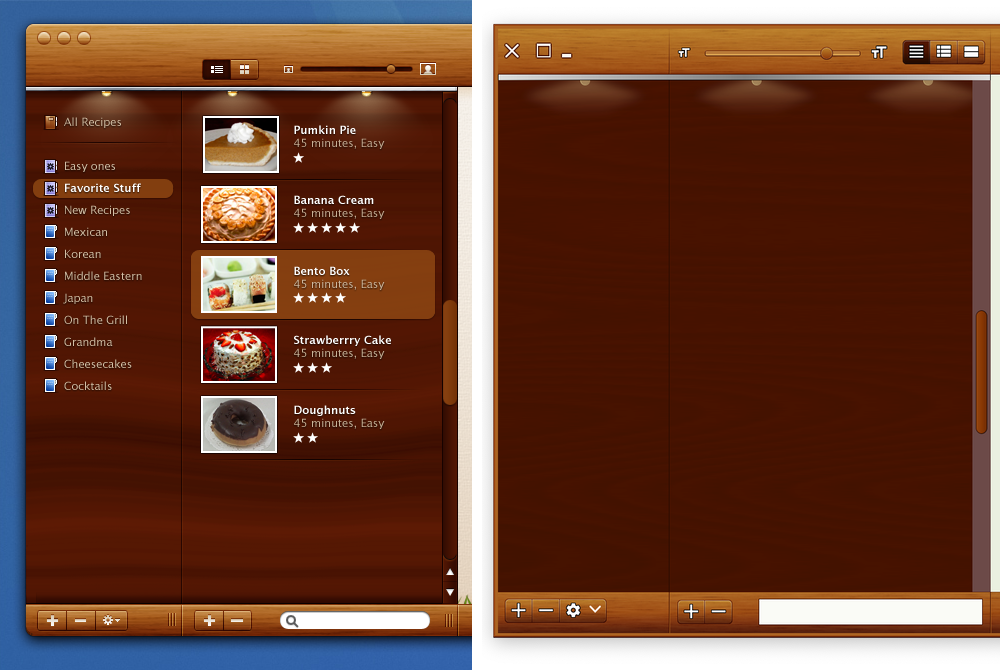
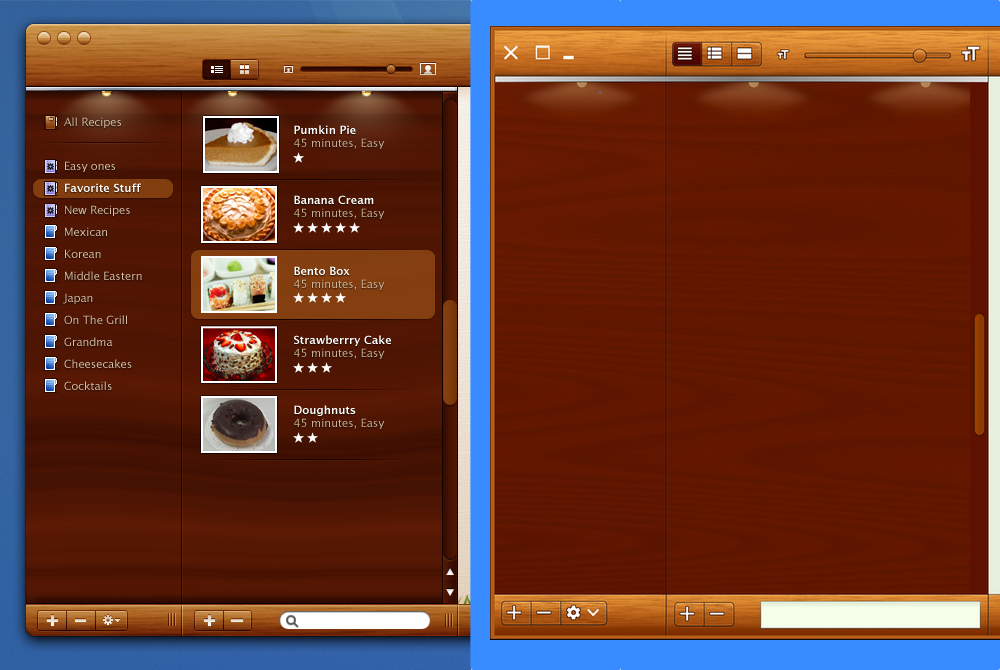
More Cookbook demo tonal tweaks
For #400

diff --git a/demos/theming-apps/src/main/java/org/pushingpixels/radiance/demo/themingapps/cookbook/skin/CookbookDecorationPainter.java b/demos/theming-apps/src/main/java/org/pushingpixels/radiance/demo/themingapps/cookbook/skin/CookbookDecorationPainter.java
@@ -30,16 +30,11 @@
 package org.pushingpixels.radiance.demo.themingapps.cookbook.skin;
 
 import com.jhlabs.image.*;
-import org.pushingpixels.ephemeral.chroma.dynamiccolor.ContainerConfiguration;
-import org.pushingpixels.ephemeral.chroma.dynamiccolor.DynamicBimodalPalette;
-import org.pushingpixels.ephemeral.chroma.hct.Hct;
 import org.pushingpixels.radiance.common.api.RadianceCommonCortex;
 import org.pushingpixels.radiance.theming.api.RadianceSkin;
 import org.pushingpixels.radiance.theming.api.RadianceThemingCortex;
 import org.pushingpixels.radiance.theming.api.RadianceThemingCortex.ComponentOrParentChainScope;
 import org.pushingpixels.radiance.theming.api.RadianceThemingSlices.DecorationAreaType;
-import org.pushingpixels.radiance.theming.api.colorscheme.BimodalPaletteResolverUtils;
-import org.pushingpixels.radiance.theming.api.colorscheme.ColorSchemeUtils;
 import org.pushingpixels.radiance.theming.api.colorscheme.ContainerColorTokens;
 import org.pushingpixels.radiance.theming.api.painter.decoration.RadianceDecorationPainter;
 
@@ -72,25 +67,25 @@ class CookbookDecorationPainter implements RadianceDecorationPainter {
         BrushedMetalFilter brushedMetalFilter = new BrushedMetalFilter();
         brushedMetalFilter.setAmount(10);
 
-        ContainerColorTokens brushedMetalTokens = ColorSchemeUtils.getBimodalContainerTokens(
-            /* seedOne */ Hct.fromInt(0xFF6F2003),
-            /* seedTwo */ Hct.fromInt(0xFFB05306),
-            /* transitionRange */ DynamicBimodalPalette.TransitionRange.TONAL_CONTAINER_SURFACES,
-            /* fidelityTone */ 45.0,
-            /* containerConfiguration */ new ContainerConfiguration(
-                /* isDark */ true,
-                /* contrastLevel */ 1.0,
-                /* surfaceRangeAmplitudeFactor */ 2.0),
-            /* colorResolver */ BimodalPaletteResolverUtils.getBimodalPaletteColorResolver());
+//        ContainerColorTokens brushedMetalTokens = ColorSchemeUtils.getBimodalContainerTokens(
+//            /* seedOne */ Hct.fromInt(0xFF6F2003),
+//            /* seedTwo */ Hct.fromInt(0xFFB05306),
+//            /* transitionRange */ DynamicBimodalPalette.TransitionRange.TONAL_CONTAINER_SURFACES,
+//            /* fidelityTone */ 45.0,
+//            /* containerConfiguration */ new ContainerConfiguration(
+//                /* isDark */ true,
+//                /* contrastLevel */ 1.0,
+//                /* surfaceRangeAmplitudeFactor */ 2.0),
+//            /* colorResolver */ BimodalPaletteResolverUtils.getBimodalPaletteColorResolver());
 
         LookupFilter brushedMetalLookupFilter = new LookupFilter(new Gradient(
             new int[] { 0, 96, 128, 192, 255 },
             new int[] {
-                brushedMetalTokens.getContainerSurfaceBright().getRGB() & 0x00FFFFFF,
-                brushedMetalTokens.getContainerSurfaceBright().getRGB() & 0x00FFFFFF,
-                brushedMetalTokens.getContainerSurfaceDim().getRGB() & 0x28FFFFFF,
-                brushedMetalTokens.getContainerSurfaceDim().getRGB() & 0xC0FFFFFF,
-                brushedMetalTokens.getContainerSurfaceDim().getRGB() }));
+                CookbookTokens.GOLDEN_BROWN_TOKENS.getContainerSurfaceBright().getRGB() & 0x00FFFFFF,
+                CookbookTokens.GOLDEN_BROWN_TOKENS.getContainerSurfaceBright().getRGB() & 0x00FFFFFF,
+                CookbookTokens.GOLDEN_BROWN_TOKENS.getContainerSurfaceDim().getRGB() & 0x28FFFFFF,
+                CookbookTokens.GOLDEN_BROWN_TOKENS.getContainerSurfaceDim().getRGB() & 0xC0FFFFFF,
+                CookbookTokens.GOLDEN_BROWN_TOKENS.getContainerSurfaceDim().getRGB() }));
 
         this.brushedMetalImage = new CompoundFilter(brushedMetalFilter, brushedMetalLookupFilter)
                 .filter(new BufferedImage(screenWidth, screenHeight, BufferedImage.TYPE_INT_ARGB),
@@ -107,13 +102,14 @@ class CookbookDecorationPainter implements RadianceDecorationPainter {
         woodFilter.setgain(0.7f);
 
         LookupFilter woodLookupFilter = new LookupFilter(new Gradient(
-            new int[] { 0, 64, 128, 192, 255 },
+            new int[] { 0, 64, 128, 164, 224, 255 },
             new int[] {
-                CookbookTokens.DARK_BROWN_TOKENS.getContainerSurfaceHighest().getRGB(),
-                CookbookTokens.DARK_BROWN_TOKENS.getContainerSurfaceHighest().getRGB(),
                 CookbookTokens.DARK_BROWN_TOKENS.getContainerSurfaceHigh().getRGB(),
+                CookbookTokens.DARK_BROWN_TOKENS.getContainerSurfaceHigh().getRGB(),
+                CookbookTokens.DARK_BROWN_TOKENS.getContainerSurface().getRGB(),
                 CookbookTokens.DARK_BROWN_TOKENS.getContainerSurfaceLow().getRGB(),
-                CookbookTokens.DARK_BROWN_TOKENS.getContainerSurfaceLowest().getRGB() }));
+                CookbookTokens.DARK_BROWN_TOKENS.getContainerSurfaceLowest().getRGB(),
+                CookbookTokens.DARK_BROWN_TOKENS.getContainerSurfaceDim().getRGB() }));
 
         this.woodImage = new CompoundFilter(woodFilter, woodLookupFilter).filter(
                 new BufferedImage(screenWidth, screenHeight, BufferedImage.TYPE_INT_ARGB), null);
@@ -136,33 +132,34 @@ class CookbookDecorationPainter implements RadianceDecorationPainter {
         if ((decorationAreaType == DecorationAreaType.PRIMARY_TITLE_PANE)
                 || (decorationAreaType == DecorationAreaType.SECONDARY_TITLE_PANE)
                 || (decorationAreaType == DecorationAreaType.HEADER)
-                || (decorationAreaType == DecorationAreaType.TOOLBAR)) {
+                || (decorationAreaType == DecorationAreaType.TOOLBAR)
+        ) {
             int dy = comp.getLocationOnScreen().y
                     - SwingUtilities.getWindowAncestor(comp).getLocationOnScreen().y;
-            // main background gradient
-            graphics.setPaint(new LinearGradientPaint(0, -dy, 0, 70 - dy,
-                new float[] { 0.0f, 0.2f, 0.4f, 0.6f, 0.8f, 1.0f },
-                new Color[] {
-                    tokens.getContainerSurfaceBright(),
-                    tokens.getContainerSurfaceHigh(),
-                    tokens.getContainerSurface(),
-                    tokens.getContainerSurfaceLow(),
-                    tokens.getContainerSurfaceLowest(),
-                    tokens.getContainerSurfaceDim() }));
-            graphics.fillRect(0, 0, width, height);
-        } else if (decorationAreaType == DecorationAreaType.FOOTER) {
-            // main background gradient
-            int dy = comp.getLocationOnScreen().y
-                    - farthestOfTheSameAreaType.getLocationOnScreen().y;
-            int footerHeight = farthestOfTheSameAreaType.getHeight();
-            graphics.setPaint(new LinearGradientPaint(0, -dy, 0, -dy + footerHeight,
-                new float[] { 0.0f, 0.3f, 0.55f, 0.77f, 1.0f },
+            int headerHeight = farthestOfTheSameAreaType.getHeight();
+            // header background gradient, slightly lighter colors
+            graphics.setPaint(new LinearGradientPaint(0, -dy, 0, -dy + headerHeight,
+                new float[] { 0.0f, 0.33f, 0.67f, 1.0f },
                 new Color[] {
                     tokens.getContainerSurfaceBright(),
                     tokens.getContainerSurfaceHighest(),
                     tokens.getContainerSurfaceHigh(),
+                    tokens.getContainerSurface()}));
+            graphics.fillRect(0, 0, width, height);
+        } else if (decorationAreaType == DecorationAreaType.FOOTER) {
+            int dy = comp.getLocationOnScreen().y
+                    - farthestOfTheSameAreaType.getLocationOnScreen().y;
+            int footerHeight = farthestOfTheSameAreaType.getHeight();
+            // footer background gradient, slightly darker colors
+            graphics.setPaint(new LinearGradientPaint(0, -dy, 0, -dy + footerHeight,
+                new float[] { 0.0f, 0.35f, 0.55f, 0.7f, 0.85f, 1.0f },
+                new Color[] {
+                    tokens.getContainerSurfaceHighest(),
+                    tokens.getContainerSurfaceHigh(),
+                    tokens.getContainerSurface(),
                     tokens.getContainerSurfaceLow(),
-                    tokens.getContainerSurfaceDim() }));
+                    tokens.getContainerSurfaceLowest(),
+                    tokens.getContainerSurfaceDim()}));
             graphics.fillRect(0, 0, width, height);
         } else if (decorationAreaType == DecorationAreaType.CONTROL_PANE) {
             // general background gradient
@@ -180,7 +177,7 @@ class CookbookDecorationPainter implements RadianceDecorationPainter {
                 - SwingUtilities.getWindowAncestor(comp).getLocationOnScreen().y;
         int dx = comp.getLocationOnScreen().x
                 - SwingUtilities.getWindowAncestor(comp).getLocationOnScreen().x;
-        graphics.setComposite(AlphaComposite.SrcOver.derive(0.3f));
+        graphics.setComposite(AlphaComposite.SrcOver.derive(0.35f));
         graphics.drawImage(toOverlay, 0, 0, width, height, dx, dy, dx + width, dy + height, null);
         graphics.setComposite(AlphaComposite.SrcOver);
 

diff --git a/demos/theming-apps/src/main/java/org/pushingpixels/radiance/demo/themingapps/cookbook/skin/CookbookSkin.java b/demos/theming-apps/src/main/java/org/pushingpixels/radiance/demo/themingapps/cookbook/skin/CookbookSkin.java
@@ -30,12 +30,14 @@
 package org.pushingpixels.radiance.demo.themingapps.cookbook.skin;
 
 import org.pushingpixels.ephemeral.chroma.dynamiccolor.ContainerConfiguration;
-import org.pushingpixels.ephemeral.chroma.dynamiccolor.DynamicBimodalPalette;
 import org.pushingpixels.ephemeral.chroma.hct.Hct;
 import org.pushingpixels.radiance.theming.api.RadianceColorSchemeBundle;
 import org.pushingpixels.radiance.theming.api.RadianceSkin;
 import org.pushingpixels.radiance.theming.api.RadianceThemingSlices;
-import org.pushingpixels.radiance.theming.api.colorscheme.*;
+import org.pushingpixels.radiance.theming.api.colorscheme.ColorSchemeUtils;
+import org.pushingpixels.radiance.theming.api.colorscheme.ColorTransform;
+import org.pushingpixels.radiance.theming.api.colorscheme.ContainerColorTokens;
+import org.pushingpixels.radiance.theming.api.colorscheme.ContainerColorTokensSingleColorQuery;
 import org.pushingpixels.radiance.theming.api.painter.outline.CompositeOutlinePainter;
 import org.pushingpixels.radiance.theming.api.painter.outline.FractionBasedOutlinePainter;
 import org.pushingpixels.radiance.theming.api.painter.overlay.BottomLineOverlayPainter;
@@ -75,7 +77,7 @@ public class CookbookSkin extends RadianceSkin {
 
         RadianceColorSchemeBundle cookbookControlPaneBundle = new RadianceColorSchemeBundle(
             /* activeContainerTokens */ ColorSchemeUtils.getContainerTokens(
-                /* seed */ Hct.fromInt(0xFFA23F00),
+                /* seed */ Hct.fromInt(0xFF974F11),
                 /* containerConfiguration */ new ContainerConfiguration(
                     /* isDark */ true,
                     /* contrastLevel */ 0.6)),
@@ -85,7 +87,7 @@ public class CookbookSkin extends RadianceSkin {
                     /* isDark */ true,
                     /* contrastLevel */ 0.6)),
             /* neutralContainerTokens */ ColorSchemeUtils.getContainerTokens(
-                /* seed */ Hct.fromInt(0xFF5F1000),
+                /* seed */ Hct.fromInt(0xFF6D2103),
                 /* containerConfiguration */ new ContainerConfiguration(
                     /* isDark */ true,
                     /* contrastLevel */ 0.6)),
@@ -93,80 +95,21 @@ public class CookbookSkin extends RadianceSkin {
         this.registerDecorationAreaSchemeBundle(cookbookControlPaneBundle,
             RadianceThemingSlices.DecorationAreaType.CONTROL_PANE);
 
-        Hct cookbookHeaderPrimarySeed = Hct.fromInt(0xFF581000);
-        Hct cookbookHeaderMutedSeed1 = Hct.fromInt(0xFF6F2003);
-        Hct cookbookHeaderMutedSeed2 = Hct.fromInt(0xFFCE8C2B);
-        Hct cookbookHeaderNeutralSeed1 = Hct.fromInt(0xFFBC6010);
-        Hct cookbookHeaderNeutralSeed2 = Hct.fromInt(0xFFCE8C2B);
-
-        RadianceColorSchemeBundle cookbookHeaderBundle = new RadianceColorSchemeBundle(
+        RadianceColorSchemeBundle cookbookChromeBundle = new RadianceColorSchemeBundle(
             /* activeContainerTokens */ ColorSchemeUtils.getContainerTokens(
-                /* seed */ cookbookHeaderPrimarySeed,
+                /* seed */ Hct.fromInt(0xFF581000),
                 /* containerConfiguration */ new ContainerConfiguration(
                     /* isDark */ true,
                     /* contrastLevel */ 1.0)),
-            /* mutedContainerTokens */ ColorSchemeUtils.getBimodalContainerTokens(
-                /* seedOne */ cookbookHeaderMutedSeed1,
-                /* seedTwo */ cookbookHeaderMutedSeed2,
-                /* transitionRange */ DynamicBimodalPalette.TransitionRange.TONAL_CONTAINER_SURFACES,
-                /* fidelityTone */ (cookbookHeaderMutedSeed1.getTone() +
-                    cookbookHeaderMutedSeed2.getTone()) / 2.0,
-                /* containerConfiguration */ new ContainerConfiguration(
-                    /* isDark */ true,
-                    /* contrastLevel */ 1.0,
-                    /* surfaceRangeAmplitudeFactor */ 2.0),
-                /* colorResolver */ BimodalPaletteResolverUtils.getBimodalPaletteColorResolver()),
-            /* neutralContainerTokens */ ColorSchemeUtils.getBimodalContainerTokens(
-                /* seedOne */ cookbookHeaderNeutralSeed1,
-                /* seedTwo */ cookbookHeaderNeutralSeed2,
-                /* transitionRange */ DynamicBimodalPalette.TransitionRange.TONAL_CONTAINER_SURFACES,
-                /* fidelityTone */ 58.0,
-                /* containerConfiguration */ new ContainerConfiguration(
-                    /* isDark */ true,
-                    /* contrastLevel */ 1.0,
-                    /* surfaceRangeAmplitudeFactor */ 1.8),
-                /* colorResolver */ BimodalPaletteResolverUtils.getBimodalPaletteColorResolver()),
+            /* mutedContainerTokens */ CookbookTokens.GOLDEN_BROWN_TOKENS,
+            /* neutralContainerTokens */ CookbookTokens.GOLDEN_BROWN_TOKENS,
             /* isSystemDark */ true);
 
-        this.registerDecorationAreaSchemeBundle(cookbookHeaderBundle,
+        this.registerDecorationAreaSchemeBundle(cookbookChromeBundle,
             RadianceThemingSlices.DecorationAreaType.PRIMARY_TITLE_PANE,
             RadianceThemingSlices.DecorationAreaType.SECONDARY_TITLE_PANE,
             RadianceThemingSlices.DecorationAreaType.HEADER,
-            RadianceThemingSlices.DecorationAreaType.TOOLBAR);
-
-        Hct cookbookFooterNeutralSeed1 = Hct.fromInt(0xFF6F2003);
-        Hct cookbookFooterNeutralSeed2 = Hct.fromInt(0xFFC37222);
-
-        RadianceColorSchemeBundle cookbookFooterBundle = new RadianceColorSchemeBundle(
-            /* activeContainerTokens */ ColorSchemeUtils.getContainerTokens(
-                /* seed */ cookbookHeaderPrimarySeed,
-                /* containerConfiguration */ new ContainerConfiguration(
-                    /* isDark */ true,
-                    /* contrastLevel */ 1.0)),
-            /* mutedContainerTokens */ ColorSchemeUtils.getBimodalContainerTokens(
-                /* seedOne */ cookbookHeaderMutedSeed1,
-                /* seedTwo */ cookbookHeaderMutedSeed2,
-                /* transitionRange */ DynamicBimodalPalette.TransitionRange.TONAL_CONTAINER_SURFACES,
-                /* fidelityTone */ (cookbookHeaderMutedSeed1.getTone() +
-                    cookbookHeaderMutedSeed2.getTone()) / 2.0,
-                /* containerConfiguration */ new ContainerConfiguration(
-                    /* isDark */ true,
-                    /* contrastLevel */ 1.0,
-                    /* surfaceRangeAmplitudeFactor */ 2.0),
-                /* colorResolver */ BimodalPaletteResolverUtils.getBimodalPaletteColorResolver()),
-            /* neutralContainerTokens */ ColorSchemeUtils.getBimodalContainerTokens(
-                /* seedOne */ cookbookFooterNeutralSeed1,
-                /* seedTwo */ cookbookFooterNeutralSeed2,
-                /* transitionRange */ DynamicBimodalPalette.TransitionRange.TONAL_CONTAINER_SURFACES,
-                /* fidelityTone */ 40.0,
-                /* containerConfiguration */ new ContainerConfiguration(
-                    /* isDark */ true,
-                    /* contrastLevel */ 1.0,
-                    /* surfaceRangeAmplitudeFactor */ 2.0),
-                /* colorResolver */ BimodalPaletteResolverUtils.getBimodalPaletteColorResolver()),
-            /* isSystemDark */ true);
-
-        this.registerDecorationAreaSchemeBundle(cookbookFooterBundle,
+            RadianceThemingSlices.DecorationAreaType.TOOLBAR,
             RadianceThemingSlices.DecorationAreaType.FOOTER);
 
         this.buttonShaper = new ClassicButtonShaper();

diff --git a/demos/theming-apps/src/main/java/org/pushingpixels/radiance/demo/themingapps/cookbook/panels/RecipeListPanel.java b/demos/theming-apps/src/main/java/org/pushingpixels/radiance/demo/themingapps/cookbook/panels/RecipeListPanel.java
@@ -51,47 +51,47 @@ public class RecipeListPanel extends SingleContentPanel {
 
         // Configure the title pane content
         FormBuilder titlePaneBuilder = FormBuilder.create().
-                columns("pref, 0dlu, 0dlu:grow, 0dlu, pref, 6dlu, pref").
+                columns("pref, 6dlu, pref, 0dlu, 0dlu:grow, 0dlu, pref").
                 rows("p").
                 padding(new EmptyBorder(8, 4, 0, 4));
+
+        CommandToggleGroupModel viewGroup = new CommandToggleGroupModel();
+        JComponent titlePaneControlButtons = new CommandStripProjection(
+            new CommandGroup(
+                Command.builder()
+                    .setIconFactory(EchoRadianceIcon.factory(ScaledRadianceIcon
+                        .factory(ic_view_headline_white_24px.factory(), 0.75f)))
+                    .inToggleGroupAsSelected(viewGroup)
+                    .build(),
+                Command.builder()
+                    .setIconFactory(EchoRadianceIcon.factory(ScaledRadianceIcon
+                        .factory(ic_view_list_white_24px.factory(), 0.75f)))
+                    .inToggleGroup(viewGroup)
+                    .build(),
+                Command.builder()
+                    .setIconFactory(EchoRadianceIcon.factory(ScaledRadianceIcon
+                        .factory(ic_view_stream_white_24px.factory(), 0.75f)))
+                    .inToggleGroup(viewGroup)
+                    .build()),
+            CommandStripPresentationModel.withDefaults())
+            .buildComponent();
+
+        titlePaneBuilder.add(titlePaneControlButtons).xy(1, 1);
 
         EchoRadianceIcon smallerIcon = new EchoRadianceIcon(
                 ScaledRadianceIcon.factory(ic_format_size_white_24px.factory(), 0.6f));
         smallerIcon.setDimension(new Dimension(16, 16));
         JLabel smaller = new JLabel(smallerIcon);
-        titlePaneBuilder.add(smaller).xy(1, 1);
+        titlePaneBuilder.add(smaller).xy(3, 1);
 
         JSlider slider = new JSlider(0, 100, 80);
-        titlePaneBuilder.add(slider).xy(3, 1);
+        titlePaneBuilder.add(slider).xy(5, 1);
 
         EchoRadianceIcon biggerIcon = new EchoRadianceIcon(
                 ScaledRadianceIcon.factory(ic_format_size_white_24px.factory(), 0.8f));
         smallerIcon.setDimension(new Dimension(16, 16));
         JLabel bigger = new JLabel(biggerIcon);
-        titlePaneBuilder.add(bigger).xy(5, 1);
-
-        CommandToggleGroupModel viewGroup = new CommandToggleGroupModel();
-        JComponent titlePaneControlButtons = new CommandStripProjection(
-                new CommandGroup(
-                        Command.builder()
-                                .setIconFactory(EchoRadianceIcon.factory(ScaledRadianceIcon
-                                        .factory(ic_view_headline_white_24px.factory(), 0.75f)))
-                                .inToggleGroupAsSelected(viewGroup)
-                                .build(),
-                        Command.builder()
-                                .setIconFactory(EchoRadianceIcon.factory(ScaledRadianceIcon
-                                        .factory(ic_view_list_white_24px.factory(), 0.75f)))
-                                .inToggleGroup(viewGroup)
-                                .build(),
-                        Command.builder()
-                                .setIconFactory(EchoRadianceIcon.factory(ScaledRadianceIcon
-                                        .factory(ic_view_stream_white_24px.factory(), 0.75f)))
-                                .inToggleGroup(viewGroup)
-                                .build()),
-                CommandStripPresentationModel.withDefaults())
-                .buildComponent();
-
-        titlePaneBuilder.add(titlePaneControlButtons).xy(7, 1);
+        titlePaneBuilder.add(bigger).xy(7, 1);
 
         this.titlePanel.setLayout(new BorderLayout());
         this.titlePanel.add(titlePaneBuilder.build(), BorderLayout.CENTER);

diff --git a/demos/theming-apps/src/main/java/org/pushingpixels/radiance/demo/themingapps/cookbook/skin/CookbookTokens.java b/demos/theming-apps/src/main/java/org/pushingpixels/radiance/demo/themingapps/cookbook/skin/CookbookTokens.java
@@ -30,18 +30,34 @@
 package org.pushingpixels.radiance.demo.themingapps.cookbook.skin;
 
 import org.pushingpixels.ephemeral.chroma.dynamiccolor.ContainerConfiguration;
+import org.pushingpixels.ephemeral.chroma.dynamiccolor.DynamicBimodalPalette;
 import org.pushingpixels.ephemeral.chroma.hct.Hct;
+import org.pushingpixels.radiance.theming.api.colorscheme.BimodalPaletteResolverUtils;
 import org.pushingpixels.radiance.theming.api.colorscheme.ColorSchemeUtils;
 import org.pushingpixels.radiance.theming.api.colorscheme.ContainerColorTokens;
 
 public class CookbookTokens {
     public static final ContainerColorTokens GOLDEN_BROWN_TOKENS =
-        ColorSchemeUtils.getContainerTokens(
-            /* seed */ Hct.fromInt(0xFFA4521B),
-            /* containerConfiguration */ ContainerConfiguration.defaultDark());
+        ColorSchemeUtils.getBimodalContainerTokens(
+            /* seedOne */ Hct.fromInt(0xFF713004),
+            /* seedTwo */ Hct.fromInt(0xFFB18337),
+            /* transitionRange */ DynamicBimodalPalette.TransitionRange.TONAL_CONTAINER_SURFACES,
+            /* fidelityTone */ 54.0,
+            /* containerConfiguration */ new ContainerConfiguration(
+                /* isDark */ true,
+                /* contrastLevel */ 1.0,
+                /* surfaceRangeAmplitudeFactor */ 2.0),
+            /* colorResolver */ BimodalPaletteResolverUtils.getBimodalPaletteColorResolver());
 
     public static final ContainerColorTokens DARK_BROWN_TOKENS =
-        ColorSchemeUtils.getContainerTokens(
-            /* seed */ Hct.fromInt(0xFF561703),
-            /* containerConfiguration */ ContainerConfiguration.defaultDark());
+        ColorSchemeUtils.getBimodalContainerTokens(
+            /* seedOne */ Hct.fromInt(0xFF4C1F02),
+            /* seedTwo */ Hct.fromInt(0xFF702103),
+            /* transitionRange */ DynamicBimodalPalette.TransitionRange.TONAL_CONTAINER_SURFACES,
+            /* fidelityTone */ 25.0,
+            /* containerConfiguration */ new ContainerConfiguration(
+                /* isDark */ true,
+                /* contrastLevel */ 1.0,
+                /* surfaceRangeAmplitudeFactor */ 1.6),
+            /* colorResolver */ BimodalPaletteResolverUtils.getBimodalPaletteColorResolver());
 }

diff --git a/demos/theming-apps/src/main/java/org/pushingpixels/radiance/demo/themingapps/cookbook/skin/CookbookSurfacePainter.java b/demos/theming-apps/src/main/java/org/pushingpixels/radiance/demo/themingapps/cookbook/skin/CookbookSurfacePainter.java
@@ -55,7 +55,7 @@ public class CookbookSurfacePainter implements RadianceSurfacePainter {
             new ContainerColorTokensSingleColorQuery[] {
                 ContainerColorTokens::getContainerSurfaceBright,
                 ContainerColorTokens::getContainerSurface,
-                ContainerColorTokens::getContainerSurfaceLowest});
+                ContainerColorTokens::getContainerSurfaceLow});
 
         this.flatDelegate = new FractionBasedSurfacePainter("Cookbook Flat",
             new float[] {0.0f, 0.5f, 1.0f},
@@ -93,7 +93,7 @@ public class CookbookSurfacePainter implements RadianceSurfacePainter {
                         .getWatermarkImage(decorationAreaType);
                     Graphics2D g2d = (Graphics2D) g.create();
                     g2d.clip(contour);
-                    g2d.setComposite(AlphaComposite.SrcOver.derive(0.4f));
+                    g2d.setComposite(AlphaComposite.SrcOver.derive(0.7f));
                     int dx = comp.getLocationOnScreen().x;
                     int dy = comp.getLocationOnScreen().y;
                     g2d.drawImage(watermark, -dx, -dy, null);
